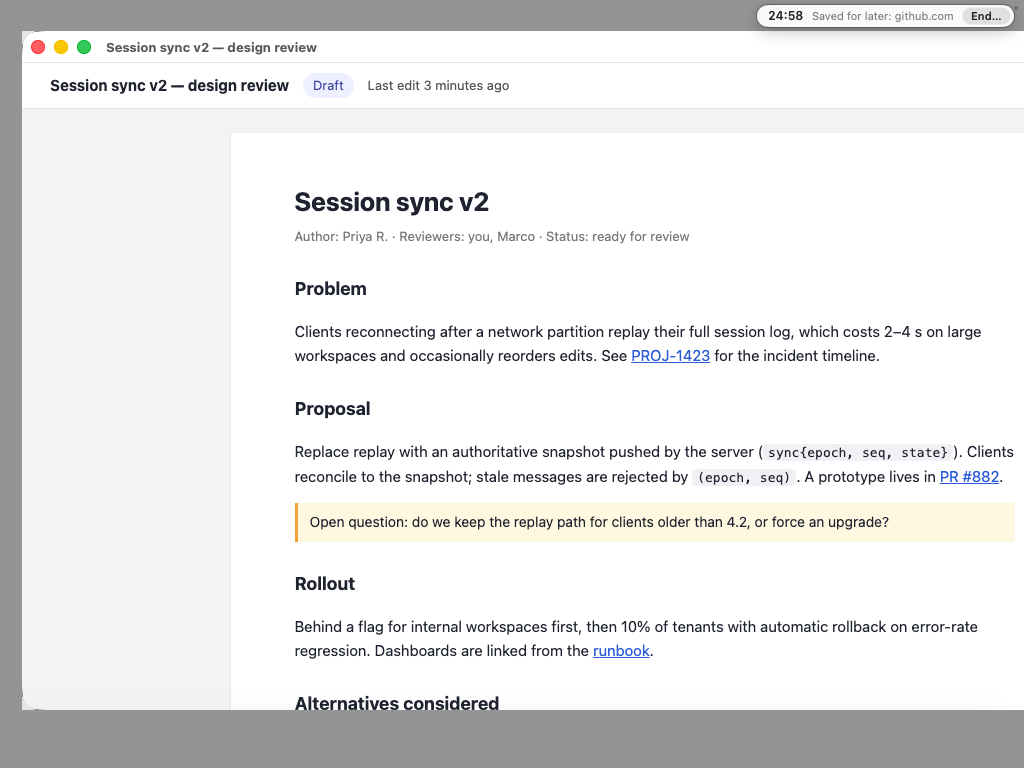
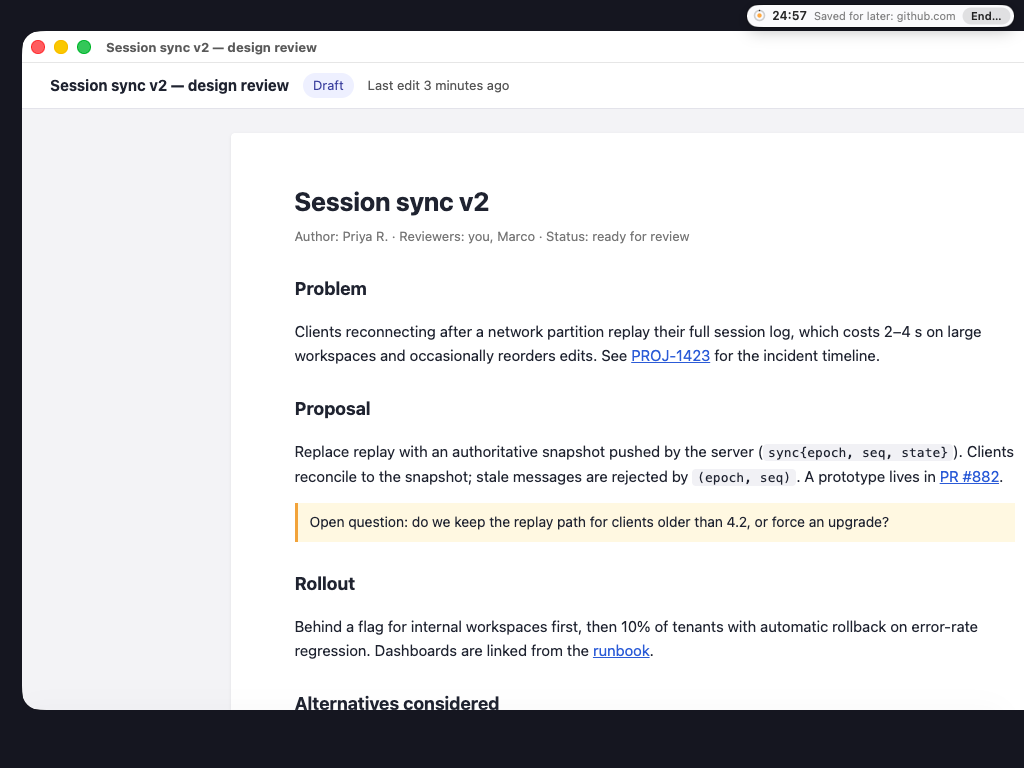
Poetic, faithful English renderings of the Gītā and Yoga Sūtra; refreshed site shots
- Gītā 6.19: 'As a lamp sheltered from the wind burns without a flicker, so
  burns the gathered mind.'
- Gītā 6.26: 'Wherever the restless mind wanders, draw it back from there,
  and let it rest within.'
- Yoga Sūtra 3.1: 'To hold the mind to a single place: this is concentration.'
- renderings are noted as our own, made for meaning rather than word for
  word (About window, website)
- end-early panel: verse legible (secondary, not tertiary), on its own line
- website hero and menu screenshots from the new dimmed design

Claude-Session: https://claude.ai/code/session_01BqfN72BuKvVXwargRjb2Uc

Changed region(s): [[0.0, 0.0, 1.0, 1.0]]

diff --git a/apps/macos/Sources/EkagrachitApp/Philosophy.swift b/apps/macos/Sources/EkagrachitApp/Philosophy.swift
@@ -59,25 +59,27 @@ struct AboutView: View {
 
                 section("A lamp in a windless place") {
                     verse("yathā dīpo nivāta-stho neṅgate sopamā smṛtā",
-                          "“As a lamp in a windless place does not flicker — that is the image of the disciplined mind.”",
+                          "“As a lamp sheltered from the wind burns without a flicker, so burns the gathered mind.”",
                           "Bhagavad Gītā 6.19")
-                    Text("That lamp is Ekagrachit's mark. The covered screen is the windless place; your document is the flame.")
+                    Text("That lamp is Ekagrachit's mark. The darkened screen is the windless place; your document is the flame.")
                 }
 
                 section("Returning is the practice") {
                     verse("yato yato niścarati manaś cañcalam asthiram / tatas tato niyamyaitad ātmany eva vaśaṁ nayet",
-                          "“Wherever the restless, unsteady mind wanders, from there bring it back.”",
+                          "“Wherever the restless mind wanders, draw it back from there, and let it rest within.”",
                           "Bhagavad Gītā 6.26")
                     Text("When you switch away and Ekagrachit brings you back, it isn't punishing a lapse. Wandering is what minds do; returning is the practice — what Patañjali calls *abhyāsa* (Yoga Sūtra 1.12–1.14).")
                 }
 
                 section("One place for the mind") {
                     verse("deśa-bandhaś cittasya dhāraṇā",
-                          "“Concentration is binding the mind to one place.”",
+                          "“To hold the mind to a single place: this is concentration.”",
                           "Yoga Sūtra 3.1")
                     Text("One document, one window, one stretch of time: a place to bind attention to. The links you reach for are saved, so the thread isn't lost — only postponed.")
                 }
 
+                Text("These ideas come from India's contemplative traditions rooted in the Vedas. Ekagrachit borrows its name from them with respect; it is a tool, not a teacher. English renderings are our own, made for meaning rather than word for word.")
+                    .font(.caption).foregroundStyle(.secondary).fixedSize(horizontal: false, vertical: true)
                 Divider()
                 HStack {
                     Text("Ekagrachit \(version)").foregroundStyle(.secondary)

diff --git a/docs/index.html b/docs/index.html
@@ -127,19 +127,19 @@
             <h2>A lamp in a windless place</h2>
             <div class="verse">
               <div class="sa" lang="sa-Latn">yathā dīpo nivāta-stho neṅgate sopamā smṛtā</div>
-              <div class="en">“As a lamp in a windless place does not flicker — that is the image of the disciplined mind.”</div>
+              <div class="en">“As a lamp sheltered from the wind burns without a flicker, so burns the gathered mind.”</div>
               <div class="src">Bhagavad Gītā 6.19</div>
             </div>
             <p>That lamp is Ekagrachit's mark. The darkened screen is the windless place; your document is the flame.</p>
             <div class="verse">
               <div class="sa" lang="sa-Latn">yato yato niścarati manaś cañcalam asthiram, tatas tato niyamyaitad ātmany eva vaśaṁ nayet</div>
-              <div class="en">“Wherever the restless, unsteady mind wanders, from there bring it back.”</div>
+              <div class="en">“Wherever the restless mind wanders, draw it back from there, and let it rest within.”</div>
               <div class="src">Bhagavad Gītā 6.26</div>
             </div>
             <p>When you switch away and Ekagrachit brings you back, it isn't punishing a lapse. Wandering is what minds do; returning is the practice, what Patañjali calls <i>abhyāsa</i> (<i>Yoga Sūtra</i> 1.12–1.14).</p>
           </div>
         </div>
-        <p class="note">These ideas come from India's contemplative traditions rooted in the Vedas. Ekagrachit borrows its name from them with respect; it is a tool, not a teacher.</p>
+        <p class="note">These ideas come from India's contemplative traditions rooted in the Vedas. Ekagrachit borrows its name from them with respect; it is a tool, not a teacher. English renderings are our own, made for meaning rather than word for word.</p>
       </div>
     </section>
 

diff --git a/apps/macos/Sources/EkagrachitApp/ConfirmEndPanel.swift b/apps/macos/Sources/EkagrachitApp/ConfirmEndPanel.swift
@@ -27,9 +27,9 @@ final class ConfirmEndPanel: NSPanel {
         body.font = .systemFont(ofSize: 12)
         body.textColor = .secondaryLabelColor
         // The teachable moment: the urge to leave is the wandering mind.
-        let verse = NSTextField(wrappingLabelWithString: "“Wherever the restless mind wanders, from there bring it back.”  — Bhagavad Gītā 6.26")
-        verse.font = NSFontManager.shared.convert(.systemFont(ofSize: 11.5), toHaveTrait: .italicFontMask)
-        verse.textColor = .tertiaryLabelColor
+        let verse = NSTextField(wrappingLabelWithString: "“Wherever the restless mind wanders, draw it back from there, and let it rest within.”\n— Bhagavad Gītā 6.26")
+        verse.font = NSFontManager.shared.convert(.systemFont(ofSize: 12), toHaveTrait: .italicFontMask)
+        verse.textColor = .secondaryLabelColor
         let cancel = NSButton(title: "Keep focusing", target: nil, action: nil)
         cancel.bezelStyle = .glass
         cancel.keyEquivalent = "\u{1b}"

diff --git a/extensions/chrome/src/ui/later.html b/extensions/chrome/src/ui/later.html
@@ -27,7 +27,7 @@
     </section>
     <footer class="name">
       <p><span lang="sa">एकाग्रचित्त</span> · <i>ekāgra-citta</i>, a mind gathered to one point.</p>
-      <p>“Wherever the restless mind wanders, from there bring it back.” — Bhagavad Gītā 6.26. The mind wandered toward these links; you brought it back, and nothing was lost.</p>
+      <p>“Wherever the restless mind wanders, draw it back from there, and let it rest within.” — Bhagavad Gītā 6.26. Your mind wandered toward these links; you brought it back, and nothing was lost.</p>
       <p><a href="https://thunderboltsid.github.io/ekagrachit/#name" target="_blank" rel="noopener">About the name</a></p>
     </footer>
   </main>
